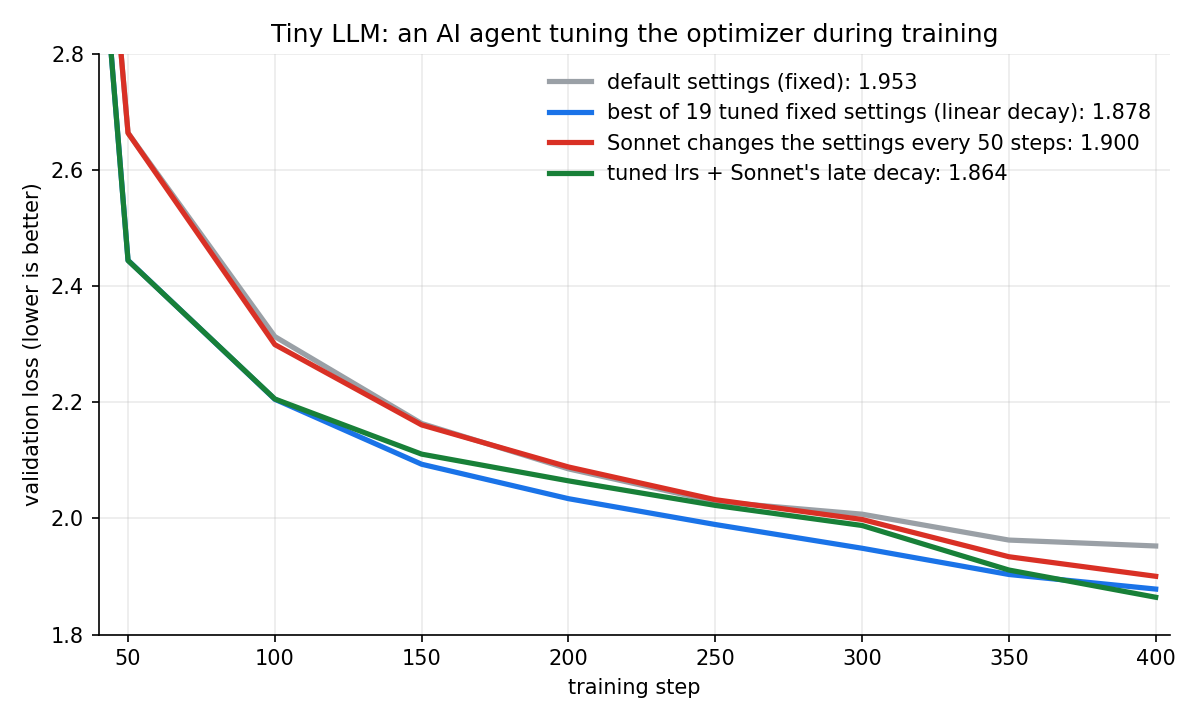
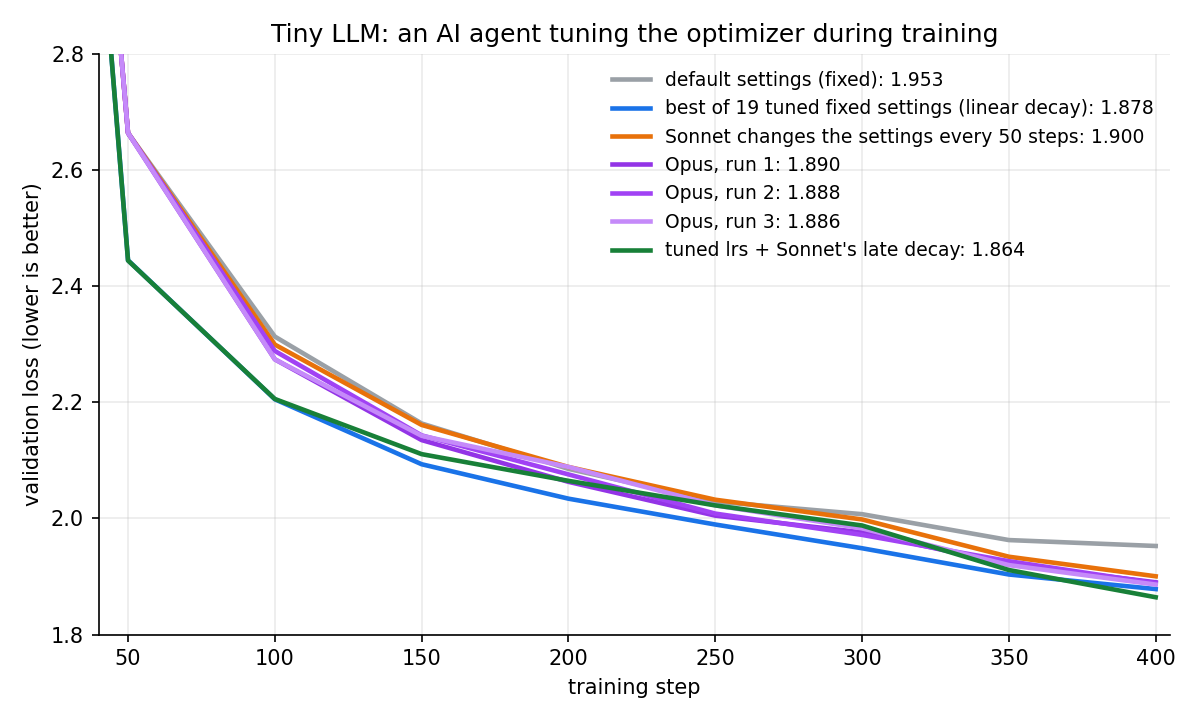
3 Opus runs: 1.890, 1.888, 1.886 (deterministic training, so spread = agent choices); every agent keeps the default Adam/Muon lr ratio and misses the 10x Adam lr

diff --git a/plot.py b/plot.py
@@ -1,19 +1,20 @@
-"""Validation loss curves: default settings, best tuned fixed settings, the Sonnet-controlled run, tuned lrs with its schedule -> curves.png"""
+"""Validation loss curves: default settings, best tuned fixed settings, the agent-controlled runs, tuned lrs with the agent schedule -> curves.png"""
 import json, os
 import matplotlib; matplotlib.use("Agg")
 import matplotlib.pyplot as plt
 
 HERE = os.path.dirname(os.path.abspath(__file__))
 rows = {r["run"]: r for r in map(json.loads, open(os.path.join(HERE, "baselines.jsonl")))}
-agent = [json.loads(l) for l in open(os.path.join(HERE, "run_log.jsonl"))]
+runs = {n: [[r["step"], r["val"]] for r in map(json.loads, open(os.path.join(HERE, "runs", n, "log.jsonl")))] for n in ("sonnet", "opus1", "opus2", "opus3")}
 lines = [("default settings (fixed)", rows["static lr 0.02"]["curve"], "#9aa0a6"),
          ("best of 19 tuned fixed settings (linear decay)", rows["static lr 0.02 adam 0.03 decay"]["curve"], "#1a73e8"),
-         ("Sonnet changes the settings every 50 steps", [[r["step"], r["val"]] for r in agent], "#d93025"),
+         ("Sonnet changes the settings every 50 steps", runs["sonnet"], "#e8710a"),
+         ("Opus, run 1", runs["opus1"], "#9334e6"), ("Opus, run 2", runs["opus2"], "#a142f4"), ("Opus, run 3", runs["opus3"], "#c58af9"),
          ("tuned lrs + Sonnet's late decay", rows["static lr 0.02 adam 0.03 decay from 250"]["curve"], "#188038")]
 fig, ax = plt.subplots(figsize=(8, 4.8), dpi=150)
 for name, c, col in lines:
-    ax.plot([0] + [s for s, _ in c], [5.55] + [v for _, v in c], color=col, lw=2.5, label=f"{name}: {c[-1][1]:.3f}")
+    ax.plot([0] + [s for s, _ in c], [5.55] + [v for _, v in c], color=col, lw=2.2, label=f"{name}: {c[-1][1]:.3f}")
 ax.set_ylim(1.8, 2.8); ax.set_xlim(40, 405); ax.set_xlabel("training step"); ax.set_ylabel("validation loss (lower is better)")
-ax.spines[["top", "right"]].set_visible(False); ax.grid(alpha=0.25); ax.legend(frameon=False)
+ax.spines[["top", "right"]].set_visible(False); ax.grid(alpha=0.25); ax.legend(frameon=False, fontsize=9)
 ax.set_title("Tiny LLM: an AI agent tuning the optimizer during training")
 fig.tight_layout(); fig.savefig(os.path.join(HERE, "curves.png"))

diff --git a/train.py b/train.py
@@ -1,8 +1,8 @@
 """Tiny byte-level LLM on TinyShakespeare whose optimizer settings can change during training.
 
 python3 train.py static --lr 0.02 [--adam 0.003] [--decay [--decay_from N]]   one full run with fixed settings (lr optionally decays linearly to 0 from step N)
-python3 train.py reset                        start an agent run: fresh model, config.json = default settings
-python3 train.py segment                      train the next 50 steps with the settings in config.json, print the log
+python3 train.py reset --run NAME             start an agent run in runs/NAME/: fresh model, config.json = default settings
+python3 train.py segment --run NAME           train the next 50 steps with runs/NAME/config.json, print the log (history: runs/NAME/log.jsonl)
 Model: 3 layers, width 64, 4 heads, RoPE, QK-norm, RMSNorm, SwiGLU, no biases, tied embeddings, 64 tokens of context.
 Hidden matrices train with Muon; embeddings and norm gains train with Adam. 400 steps, batch 16, ~8 s on one CPU thread.
 """
@@ -112,8 +112,9 @@ def log(row):
 
 
 if __name__ == "__main__":
-    ap = argparse.ArgumentParser(); ap.add_argument("cmd"); ap.add_argument("--lr", type=float, default=0.02); ap.add_argument("--decay", action="store_true"); ap.add_argument("--adam", type=float, default=0.003); ap.add_argument("--decay_from", type=int, default=0)
-    a = ap.parse_args(); ck, cf, rl = (os.path.join(HERE, f) for f in ("run.pt", "config.json", "run_log.jsonl"))
+    ap = argparse.ArgumentParser(); ap.add_argument("cmd"); ap.add_argument("--lr", type=float, default=0.02); ap.add_argument("--decay", action="store_true"); ap.add_argument("--adam", type=float, default=0.003); ap.add_argument("--decay_from", type=int, default=0); ap.add_argument("--run", default="sonnet")
+    a = ap.parse_args(); rd = os.path.join(HERE, "runs", a.run); os.makedirs(rd, exist_ok=True)
+    ck, cf, rl = (os.path.join(rd, f) for f in ("run.pt", "config.json", "log.jsonl"))
     if a.cmd == "static":
         t0 = time.time(); m, o = fresh(); c = dict(DEFAULT, muon_lr=a.lr, adam_lr=a.adam); curve = []
         for s in range(0, STEPS, SEG):

diff --git a/paper.md b/paper.md
@@ -4,13 +4,30 @@ October 28, 2026
 
 ## Abstract
 
-An AI agent (Claude Sonnet) controlled the optimizer of a tiny language model during training. Every 50 steps it read the loss log and chose new settings. In one run it reached a validation loss of 1.900. The default settings reach 1.953, and the best of a 19-run learning-rate sweep reaches 1.878. The agent's schedule shape was better than the sweep's. It held the learning rate high, then dropped it fast at the end. Its learning rates were worse than the sweep's. Combining the sweep's learning rates with the agent's schedule gives 1.864, the best result.
+An AI agent (Claude) controlled the optimizer of a tiny language model during training. Every 50 steps it read the loss log and chose new settings. Training is deterministic: the same fixed settings give the same loss every time, so different agent runs differ only by the agent's choices.
+
+| controller | final validation loss |
+|---|---|
+| default settings | 1.953 |
+| Sonnet, 1 run | 1.900 |
+| Claude Opus, 3 separate runs | 1.888 ± 0.002 |
+| best of a 19-run learning-rate sweep | 1.878 |
+
+All four agent runs followed the same plan:
+- raise the learning rates early
+- lower them toward the end
+- leave momentum and weight decay alone
+- keep the two learning rates in their default ratio
+
+That ratio is the main thing the agents got wrong. The sweep's best setting uses an embedding learning rate 10x the default.
+
+The agents' schedule shape was better than the sweep's. Combining the sweep's learning rates with Sonnet's schedule gives 1.864, the best result.
 
 ## 1. Question
 
-Reactive Optimizers (OPAL, Bai et al., MIT, 2026) let an AI agent change the optimizer while a model trains. On a 162M GPT, the agent beat the official recipe. The agent started from a learning-rate-swept recipe and gained a further 0.16 bits per sentence.
+Reactive Optimizers (OPAL, Bai et al., MIT, 2026) let an AI agent change the optimizer while a model trains. On a 162M GPT, the agent beat the official recipe.
 
-We ask a small version of that question. Starting from untuned default settings, how close does an agent get to a tuned sweep, in one run?
+We ask a small version of that question. Starting from untuned default settings, how close does an agent get to a tuned sweep in one run? And does the agent give the same result when the run is repeated?
 
 ## 2. Setup
 
@@ -21,64 +38,77 @@ We ask a small version of that question. Starting from untuned default settings,
 - 400 steps, batch 16, 64 tokens of context
 - about 9 seconds on one CPU thread
 
-Every run sees the same batches in the same order, so the optimizer is the only difference.
+Every run starts from the same weights and sees the same batches in the same order.
 
 **Optimizer.** Muon (Newton-Schulz, Nesterov momentum) trains the hidden weight matrices. Adam trains the embedding table and the norm gains.
 
-**What the agent controls.** The agent sets four values before each of the 8 segments of 50 steps:
+**What the agent controls.** Before each of the 8 segments of 50 steps, the agent sets four values:
 - Muon learning rate (default 0.02)
 - Muon momentum (default 0.95)
 - Adam learning rate (default 0.003)
 - weight decay (default 0)
 
-After each segment, the agent sees:
-- the train loss at the segment's start
-- the mean train loss over the segment's last 10 steps
-- the segment's highest train loss
+After each segment, the agent sees four numbers:
+- the train loss at the start of the segment
+- the mean train loss over the last 10 steps
+- the highest train loss in the segment
 - the validation loss
 
-The agent cannot restart or undo a segment. It never saw the sweep results.
+The agent cannot restart or undo a segment. It never saw the sweep results or the other agents' runs.
+
+**Agents.** Claude Sonnet ran once. Claude Opus ran 3 times, each with the same prompt in its own folder.
 
 **Baseline.** 19 fixed-setting runs:
-- Muon learning rate 0.01 to 0.16
-- Adam learning rate 0.001 to 0.1
+- Muon learning rate from 0.01 to 0.16
+- Adam learning rate from 0.001 to 0.1
 - learning rate either constant or decaying linearly to 0
 
 ## 3. Results
+
+**Training is repeatable.** The default settings, run 3 times, gave 1.9526 each time.
 
 | run | runs | final validation loss |
 |---|---|---|
 | default settings | 1 | 1.953 |
 | default settings, linear decay | 1 | 1.947 |
-| **Sonnet controls the settings** | 1 | **1.900** |
-| default settings, Sonnet-style late decay (constant until step 250, then linear to 0) | 1 | 1.907 |
+| default settings, late decay (constant until step 250, then linear to 0) | 1 | 1.907 |
+| Sonnet controls the settings | 1 | 1.900 |
+| Opus controls the settings, run 1 | 1 | 1.890 |
+| Opus controls the settings, run 2 | 1 | 1.888 |
+| Opus controls the settings, run 3 | 1 | 1.886 |
 | best of the sweep (Muon 0.02, Adam 0.03, linear decay) | 19 | 1.878 |
 | sweep's learning rates + late decay | 1 | **1.864** |
 
-Sonnet made these changes:
-- At step 50, it raised the Adam learning rate from 0.003 to 0.004.
-- At step 100, it raised the Muon learning rate from 0.02 to 0.025.
-- It held those settings until step 250.
-- It then cut both learning rates in three steps, to 0.005 for Muon and 0.001 for Adam by the last segment.
-- It never touched momentum or weight decay.
+What each agent did, as Muon learning rate / Adam learning rate:
+
+| run | highest rates | lowered from | last segment | Adam / Muon ratio |
+|---|---|---|---|---|
+| Sonnet | 0.025 / 0.004 | step 250 | 0.005 / 0.001 | 0.15–0.2 |
+| Opus 1 | 0.04 / 0.006 | step 150 | 0.004 / 0.0006 | 0.15 |
+| Opus 2 | 0.04 / 0.006 | step 200 | 0.006 / 0.0009 | 0.14–0.15 |
+| Opus 3 | 0.05 / 0.008 | step 200 | 0.006 / 0.001 | 0.15–0.17 |
+| best fixed setting | 0.02 / 0.03 | step 0 (linear) | — | 1.5 |
+
+No agent changed momentum or weight decay.
 
 ## 4. What we learned
 
-1. **One agent run closed 70% of the gap to a 19-run sweep.** The gap is 0.053 of 0.075.
-2. **Almost all of the agent's gain came from when it lowered the learning rate.** With the default learning rates, a linear decay gains only 0.006. Holding the rate until step 250 and then dropping it gains 0.046. That second schedule is close to the warmup-stable-decay schedules used in large LLM training.
-3. **The agent was too careful with the size of the learning rate.** The best Adam learning rate is 10x the default, and that is the largest single gain in the sweep. The agent moved it only from 0.003 to 0.004. By step 50 the sweep's best run is already 0.22 ahead in validation loss (2.44 vs 2.66), and the agent never caught up.
-4. **The two methods find different things.** The sweep finds the size of the learning rate. The agent finds the shape of the schedule. Together they give 1.864, which beats both.
+1. **Opus is consistent and better than Sonnet.** The three Opus runs ended within 0.004 of each other. On average they closed 87% of the gap between the default settings and the 19-run sweep. Sonnet's single run closed 70%.
+2. **Agents tune the size of the learning rate but not the balance between the two.** Every agent scaled both learning rates by about the same factor, keeping the default Adam-to-Muon ratio of 0.15. The best fixed setting has a ratio of 1.5. That is the biggest single gain in the sweep, and no agent found it.
+3. **The agents' timing beats a linear decay.** Holding the learning rate up and then dropping it in the last 100–150 steps is close to the warmup-stable-decay schedules used to train large LLMs. With the default learning rates, Sonnet's timing gains 0.046, while a linear decay gains only 0.006.
+4. **A sweep and an agent find different things.** The sweep finds the right learning rates. The agent finds the right schedule shape. Together they give 1.864, which beats both.
 
 ## 5. Limits
 
-- One agent run, one model, 400 steps. A different agent run may choose differently.
-- The agent made 8 decisions per run. OPAL makes about 100.
-- The agent changed only four numbers. OPAL's agent can rewrite the optimizer code itself, for example switching weight matrices to Muon.
-- The sweep did not include late-decay schedules. With them, the sweep would have found 1.864 itself.
+- One model, 400 steps.
+- The agents made 8 decisions per run. OPAL's agent makes about 100.
+- Agents could change only four numbers. OPAL's agent can rewrite the optimizer code itself.
+- The sweep did not include late-decay schedules. With them, it would have found 1.864 itself.
+- The agent sees only losses. It might find the learning-rate ratio if it saw per-layer statistics, such as how fast the embeddings change compared with the hidden matrices.
 
 ## Files
 
 - `train.py`: model, optimizer, fixed runs and agent segments
 - `baselines.jsonl`: all fixed runs
-- `run_log.jsonl`, `decisions.md`: the agent run and its reasons
-- `plot.py`, `curves.png`: the chart
+- `runs/<name>/log.jsonl` and `runs/<name>/decisions.md`: each agent run and its reasons
+- `plot.py` and `curves.png`: the chart

diff --git a/README.md b/README.md
@@ -1,31 +1,34 @@
 # An AI agent changing the optimizer while a tiny LLM trains
 
-Can an AI agent (Claude Sonnet) that watches the loss and changes the optimizer settings every 50 steps match a human-tuned learning-rate sweep, in a single run?
+Can an AI agent (Claude) that watches the loss and changes the optimizer settings every 50 steps match a human-tuned learning-rate sweep, in a single run? And does it do the same thing every time?
 
 This is a small version of [Reactive Optimizers (OPAL)](https://xingjianbai.com/reactive-optimizers/), the MIT paper where an agent rewrites the optimizer during training.
 
 | run | runs needed | final validation loss |
 |---|---|---|
-| default settings, fixed | 1 | 1.953 |
+| default settings, fixed (same loss on 3 repeats: training is deterministic) | 1 | 1.953 |
 | Sonnet changes the settings every 50 steps | 1 | 1.900 |
+| Opus changes the settings every 50 steps, 3 separate runs | 1 each | 1.890, 1.888, 1.886 |
 | best of 19 fixed settings (learning-rate sweep, linear decay) | 19 | 1.878 |
 | sweep's learning rates + Sonnet's late-decay schedule | 1 | **1.864** |
 
 ![curves](curves.png)
 
-- In one run, Sonnet closed 70% of the gap between the default settings and the 19-run sweep.
+- Training repeats exactly: the same fixed settings give 1.9526 three times. So different agent runs differ only by the agent's choices.
+- Opus is consistent: 3 runs ended within 0.004 of each other (1.886 to 1.890) and closed 87% of the gap between the default settings and the 19-run sweep. Sonnet closed 70%.
+- All 4 agent runs did the same thing: raise both learning rates together, then lower them toward the end. None touched momentum or weight decay.
 - Sonnet found a better schedule shape than the sweep: full learning rate until step 250, then a fast drop. With the same learning rates, that shape beats a linear decay by 0.04 (1.907 vs 1.947).
-- Sonnet missed that the embedding learning rate was 10x too low (0.003 vs the best 0.03); it only moved it to 0.004. The sweep found that.
+- No agent found the biggest gain: the embedding (Adam) learning rate should be 1.5x the Muon one, not 0.15x. Every agent moved both rates together and kept the default ratio, so Adam stayed 4-8x too low. The sweep found that.
 - Putting the two together gives the best result: 1.864.
 
-Short paper: [paper.md](paper.md). Sonnet's own reasons for each change: [decisions.md](decisions.md).
+Short paper: [paper.md](paper.md). Each agent's reasons for its changes: `runs/<name>/decisions.md`.
 
 ## Run it
 
 ```bash
 python3 train.py static --lr 0.02 --adam 0.03 --decay --decay_from 250   # one fixed run, ~9 s on one CPU thread
-python3 train.py reset                                                    # start an agent-controlled run
-python3 train.py segment                                                  # train 50 steps with config.json; the agent edits config.json between segments
+python3 train.py reset --run NAME                                         # start an agent-controlled run in runs/NAME/
+python3 train.py segment --run NAME                                       # train 50 steps with runs/NAME/config.json; the agent edits it between segments
 python3 plot.py
 ```
 

diff --git a/runs/opus2/decisions.md b/runs/opus2/decisions.md
@@ -1,0 +1,8 @@
+step 50: muon_lr 0.035, momentum 0.95, adam_lr 0.005, wd 0 — loss fell smoothly 5.57→2.72 with no spikes, so a tiny model can likely take a higher lr during the fast phase.
+step 100: muon_lr 0.04, momentum 0.95, adam_lr 0.006, wd 0 — higher lr was stable (max 2.68, val 2.29), so push slightly higher before starting the decay.
+step 150: muon_lr 0.04, momentum 0.95, adam_lr 0.006, wd 0 — still stable and improving (val 2.14), hold the peak lr one more segment before decaying.
+step 200: muon_lr 0.03, momentum 0.95, adam_lr 0.0045, wd 0 — halfway point, start a stepwise decay toward ~0 by step 400 to cash in noise reduction.
+step 250: muon_lr 0.022, momentum 0.95, adam_lr 0.0033, wd 0 — val still dropping 0.07 per segment, continue the gradual decay.
+step 300: muon_lr 0.014, momentum 0.95, adam_lr 0.0021, wd 0 — gains slowing (val -0.037), keep decaying so the last segment can anneal.
+step 350: muon_lr 0.006, momentum 0.95, adam_lr 0.0009, wd 0 — last segment, anneal to a low lr since decay gave the biggest val drop so far (-0.045).
+step 400: training finished — final val 1.8884.

diff --git a/runs/opus3/decisions.md b/runs/opus3/decisions.md
@@ -1,0 +1,7 @@
+step 50: muon_lr 0.04, momentum 0.95, adam_lr 0.006, wd 0 — loss falling smoothly with no spikes, so raise both lrs to train faster in the mid phase.
+step 100: muon_lr 0.05, momentum 0.95, adam_lr 0.008, wd 0 — higher lr gave a clean drop (2.66→2.27) with only a small early bump, so push lr a bit higher.
+step 150: muon_lr 0.05, momentum 0.95, adam_lr 0.008, wd 0 — still improving (val 2.14) but max loss 2.37 hints at noise, so hold lr rather than raise it.
+step 200: muon_lr 0.045, momentum 0.95, adam_lr 0.007, wd 0 — stable progress (val 2.09, max loss near start), keep lr high with a slight trim before the final decay.
+step 250: muon_lr 0.03, momentum 0.95, adam_lr 0.005, wd 0 — train loss flattened around 1.92 at high lr, so start the decay over the last 150 steps.
+step 300: muon_lr 0.017, momentum 0.95, adam_lr 0.003, wd 0 — decay is paying off (val 2.02→1.98), continue stepping lr down.
+step 350: muon_lr 0.006, momentum 0.95, adam_lr 0.001, wd 0 — lower lr gave the largest val drop yet (1.98→1.92), so anneal to near zero for the final segment.

diff --git a/runs/opus1/decisions.md b/runs/opus1/decisions.md
@@ -1,0 +1,7 @@
+step 50: muon_lr 0.04, momentum 0.95, adam_lr 0.006, wd 0 — loss falling smoothly with no spikes, so push lr up while early in training.
+step 100: muon_lr 0.04, momentum 0.95, adam_lr 0.006, wd 0 — higher lr was stable (val 2.66→2.27), keep it for one more segment before cooling down.
+step 150: muon_lr 0.036, momentum 0.95, adam_lr 0.0054, wd 0 — progress slowing (val 2.135), start a linear cooldown to ~0 by step 400 (segment midpoint values).
+step 200: muon_lr 0.028, momentum 0.95, adam_lr 0.0042, wd 0 — val still dropping steadily (2.063), continue the linear cooldown.
+step 250: muon_lr 0.02, momentum 0.95, adam_lr 0.003, wd 0 — val 2.005, gains shrinking; keep decaying lr to settle into the minimum.
+step 300: muon_lr 0.012, momentum 0.95, adam_lr 0.0018, wd 0 — val 1.976, cooldown is still paying off; continue linear decay.
+step 350: muon_lr 0.004, momentum 0.95, adam_lr 0.0006, wd 0 — final segment, drop lr near zero to finish the cooldown (val fell 0.055 last segment).
